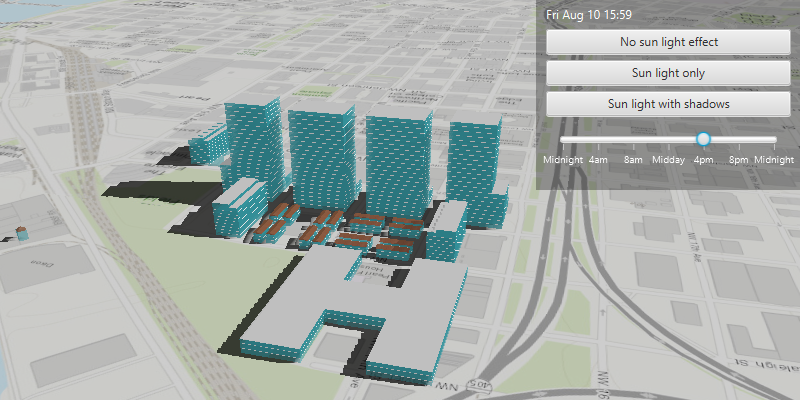
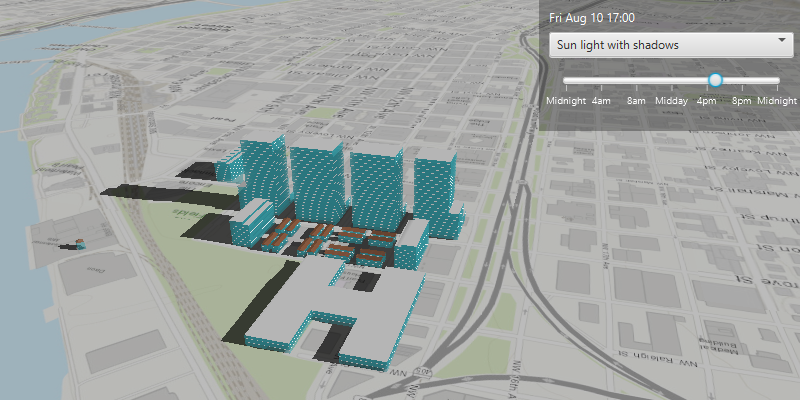
Represent time as ints

diff --git a/scene/realistic-lighting-and-shadows/src/main/resources/realistic_lighting_and_shadows/style.css b/scene/realistic-lighting-and-shadows/src/main/resources/realistic_lighting_and_shadows/style.css
@@ -16,7 +16,6 @@ VBox {
 }
 
 .slider {
-
   -fx-padding: 10;
 }
 

diff --git a/scene/realistic-lighting-and-shadows/src/main/java/com/esri/samples/realistic_lighting_and_shadows/RealisticLightingAndShadowsController.java b/scene/realistic-lighting-and-shadows/src/main/java/com/esri/samples/realistic_lighting_and_shadows/RealisticLightingAndShadowsController.java
@@ -22,7 +22,6 @@ import java.util.GregorianCalendar;
 import java.util.TimeZone;
 
 import javafx.fxml.FXML;
-import javafx.scene.control.Button;
 import javafx.scene.control.ComboBox;
 import javafx.scene.control.Label;
 import javafx.scene.control.ListCell;
@@ -38,6 +37,8 @@ import com.esri.arcgisruntime.mapping.view.AtmosphereEffect;
 import com.esri.arcgisruntime.mapping.view.Camera;
 import com.esri.arcgisruntime.mapping.view.LightingMode;
 import com.esri.arcgisruntime.mapping.view.SceneView;
+
+import static java.lang.StrictMath.floor;
 
 public class RealisticLightingAndShadowsController {
 
@@ -95,7 +96,14 @@ public class RealisticLightingAndShadowsController {
       // set the slider to display tick labels as time strings
       setSliderLabels();
 
-      
+      // set the combo box to display the lighting modes as strings
+      setComboBoxLabels();
+
+      // update the atmosphere effect based on the lighting mode chosen from the combo box
+      comboBox.getSelectionModel().selectedItemProperty().addListener(e -> {
+        sceneView.setSunLighting(comboBox.getSelectionModel().getSelectedItem());
+      });
+
     } catch (Exception e) {
       // on any error, display the stack trace.
       e.printStackTrace();
@@ -103,42 +111,29 @@ public class RealisticLightingAndShadowsController {
   }
 
   /**
-   * Update lighting mode based on the button selected slider.
+   * Set the sun time based on the time from the slider.
    */
   @FXML
   public void changeTimeOfDay() {
     // when the slider changes, update the hour of the day based on the value of the slider
     timeSlider.valueProperty().addListener((observable, oldValue, newValue) -> {
 
-        // get value from the slider
-        Double timeFromSlider = timeSlider.getValue();
-        // to get minutes from timer value, split double to the two values after decimal place
-        String timeAsString = timeFromSlider.toString();
-
         // get the hour value from the slider
-        int hourFromSlider = timeFromSlider.intValue();
+        int hours = newValue.intValue();
 
-        if (timeAsString.length() > 4) {
-          String subString = timeAsString.substring(3, 5);
+        // get the minutes from the slider
+        double afterDecimal = newValue.doubleValue() - floor(newValue.doubleValue());
+        int minutes = (int) (afterDecimal * 60);
 
-          int minutes = Integer.valueOf(subString);
-          // convert figures into minutes
-          float actualMinutes = ((float) minutes / (float) 100) * (float) 60;
-          // round into an integer
-          int minuteFromSlider = Math.round(actualMinutes);
+        // set the calendar for given hour and minute from slider value
+        calendar.set(Calendar.HOUR_OF_DAY, hours);
+        calendar.set(Calendar.MINUTE, minutes);
 
-          // set the calendar for given hour and minute from slider value
-          calendar.set(Calendar.HOUR_OF_DAY, hourFromSlider);
-          calendar.set(Calendar.MINUTE, minuteFromSlider);
-
-        } else {
-          calendar.set(2018, 7, 10, hourFromSlider, 00);
-        }
         // tidy string to just return date and time (hours and minutes)
-        String dynamicDateAndTimeTidied = dateFormat.format(calendar.getTime());
+        String dateAndTimeTidied = dateFormat.format(calendar.getTime());
 
         // update label to reflect current date and time
-        time.setText(dynamicDateAndTimeTidied);
+        time.setText(dateAndTimeTidied);
 
         // set the sun time to calendar
         sceneView.setSunTime(calendar);
@@ -154,13 +149,13 @@ public class RealisticLightingAndShadowsController {
     timeSlider.setLabelFormatter(new StringConverter<Double>() {
 
       @Override
-      public String toString(Double object) {
+      public String toString(Double hour) {
 
-        if (object == 4) return "4am";
-        if (object == 8) return "8am";
-        if (object == 12) return "Midday";
-        if (object == 16) return "4pm";
-        if (object == 20) return "8pm";
+        if (hour == 4) return "4am";
+        if (hour == 8) return "8am";
+        if (hour == 12) return "Midday";
+        if (hour == 16) return "4pm";
+        if (hour == 20) return "8pm";
 
         return "Midnight";
       }
@@ -182,10 +177,11 @@ public class RealisticLightingAndShadowsController {
       @Override
       public String toString(LightingMode mode) {
 
-        if (mode == LightingMode.LIGHT) return "Light Only";
-        if (mode == LightingMode.LIGHT_AND_SHADOWS) return "Light and Shadows";
-        if (mode == LightingMode.NO_LIGHT) return "No Light";
-        else return "Light only";
+        if (mode == LightingMode.LIGHT) return "Sun light only";
+        if (mode == LightingMode.LIGHT_AND_SHADOWS) return "Sun light with shadows";
+        if (mode == LightingMode.NO_LIGHT) return "No sun light effect";
+
+        else return "Sun light only";
       }
 
       @Override
@@ -201,10 +197,11 @@ public class RealisticLightingAndShadowsController {
 
         super.updateItem(mode, empty);
 
-        if (mode == LightingMode.LIGHT) setText("Light Only");
-        else if (mode == LightingMode.LIGHT_AND_SHADOWS) setText("Light and Shadows");
-        else if (mode == LightingMode.NO_LIGHT) setText("No Light");
-        else setText("Light only");
+        if (mode == LightingMode.LIGHT) setText("Sun light only");
+        else if (mode == LightingMode.LIGHT_AND_SHADOWS) setText("Sun light with shadows");
+        else if (mode == LightingMode.NO_LIGHT) setText("No sun light effect");
+
+        else setText("Sun light only");
       }
     });
   }
